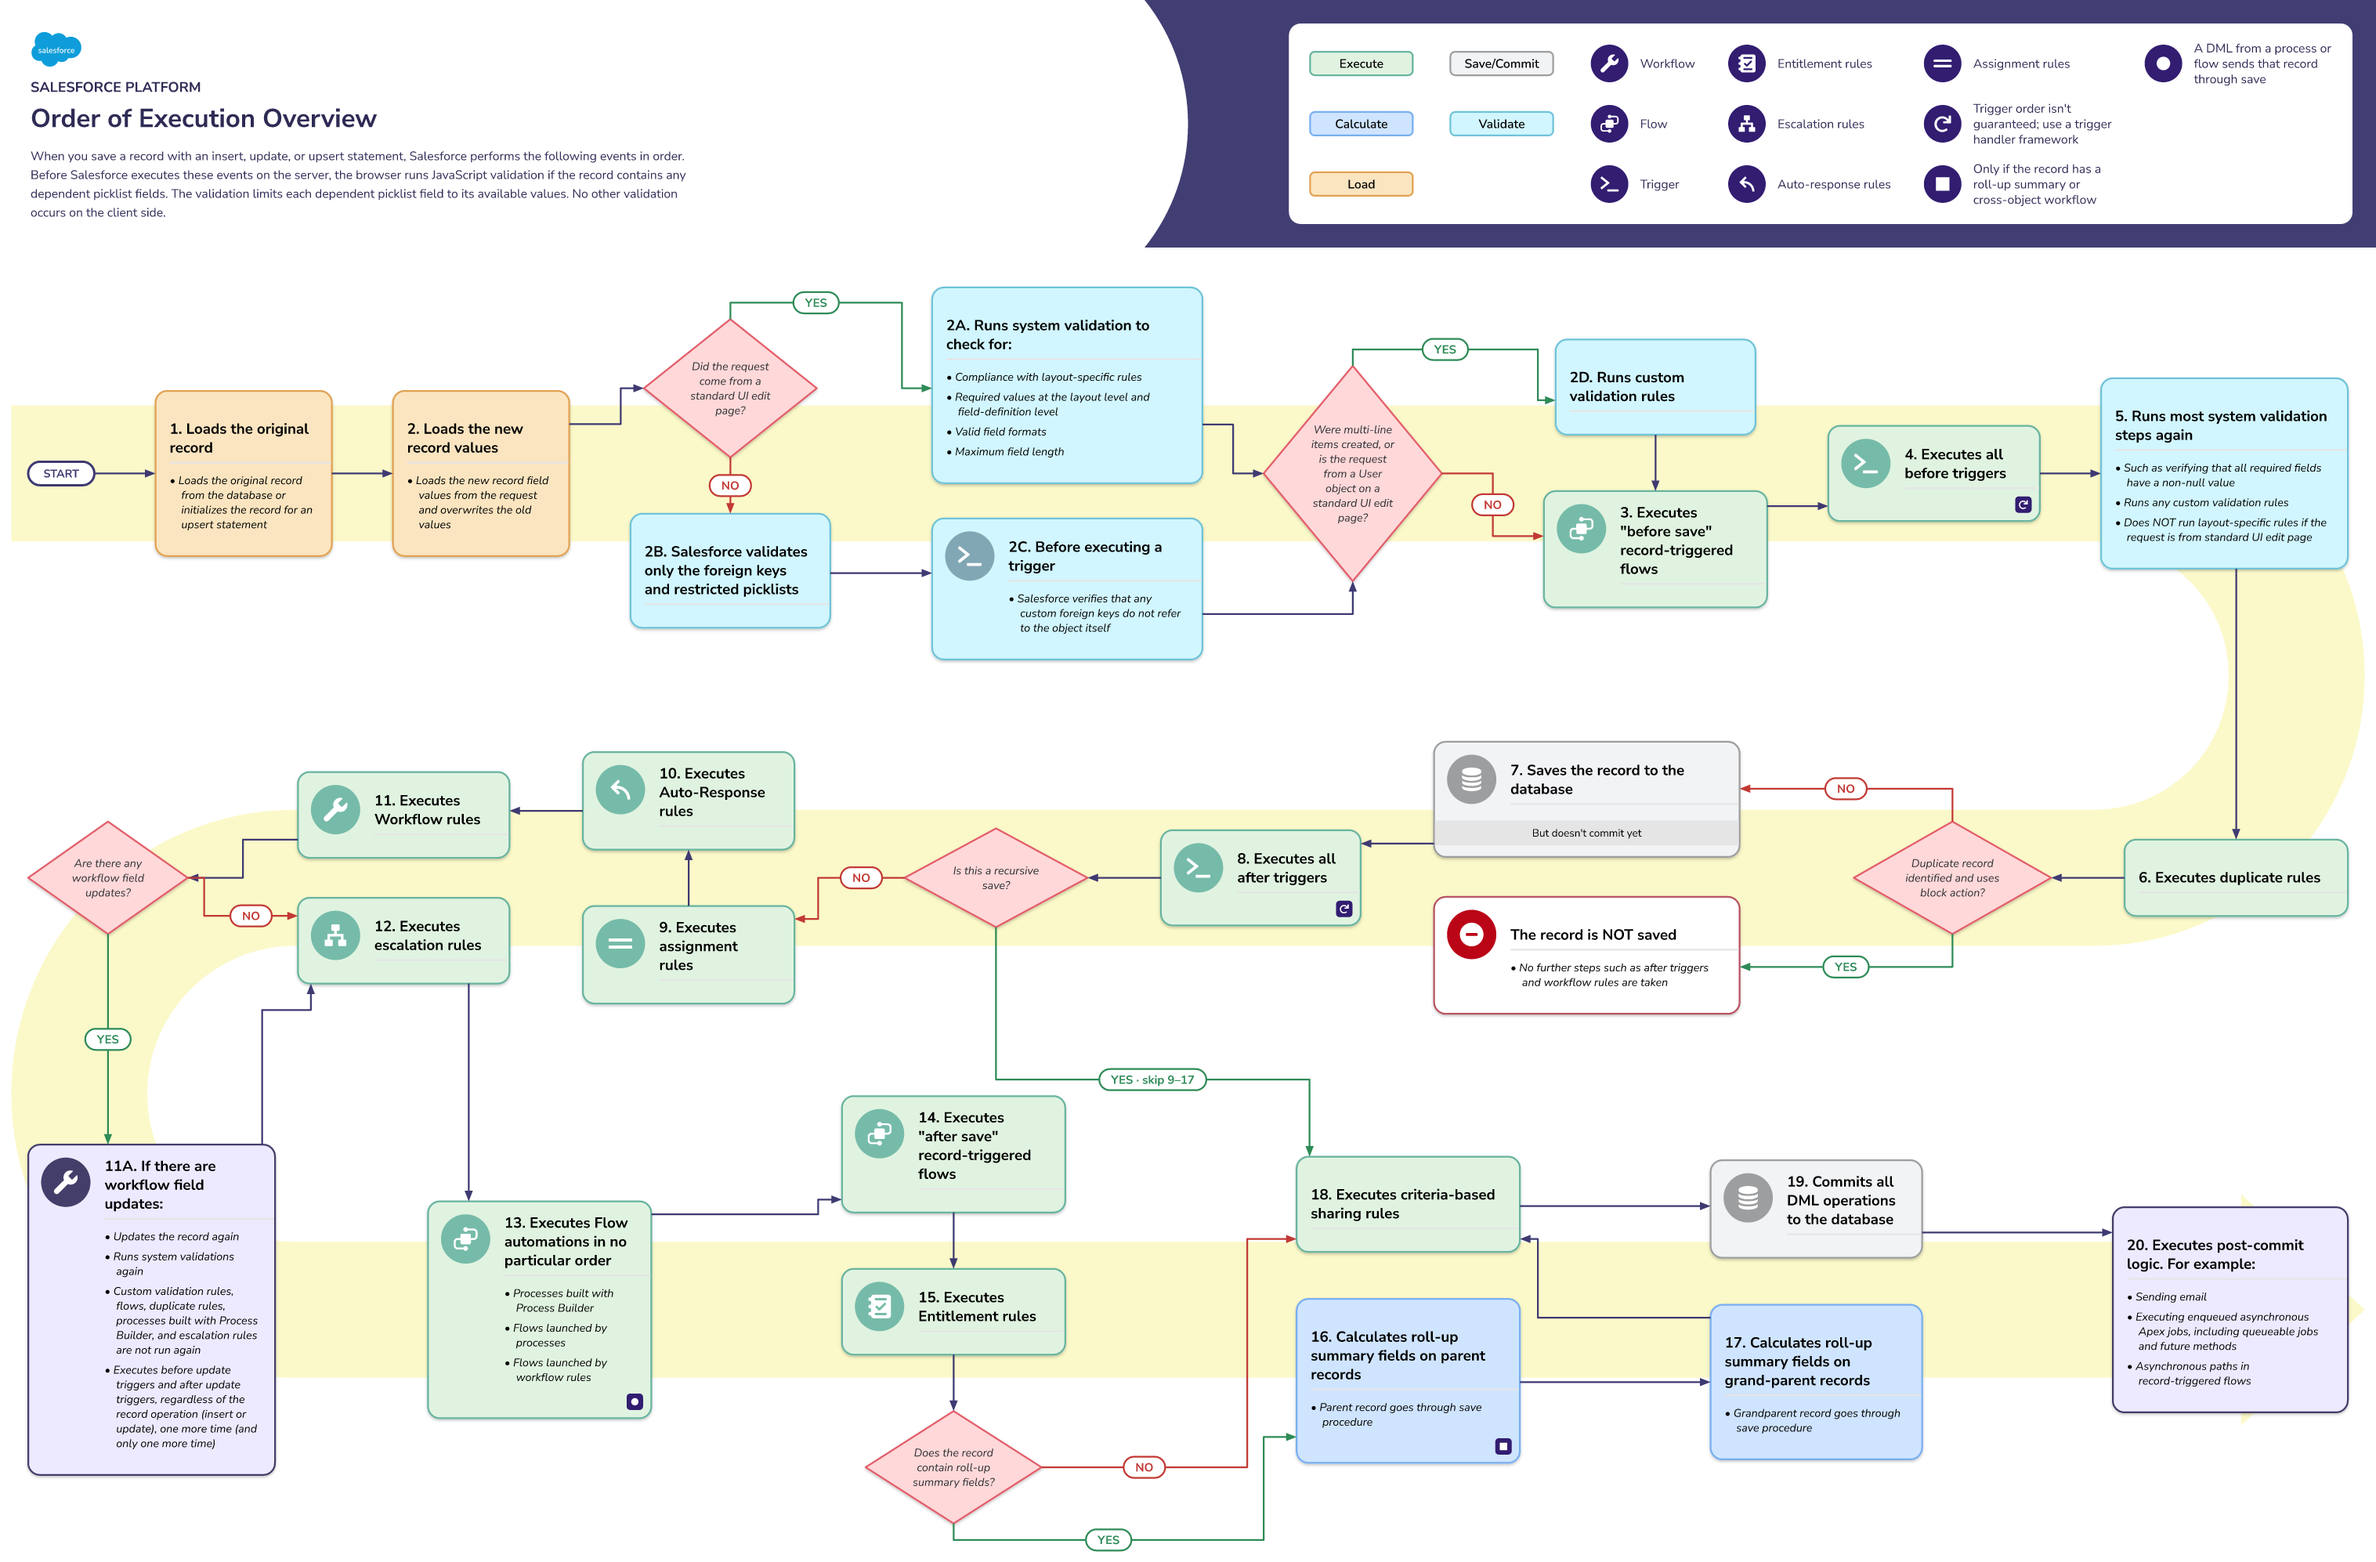
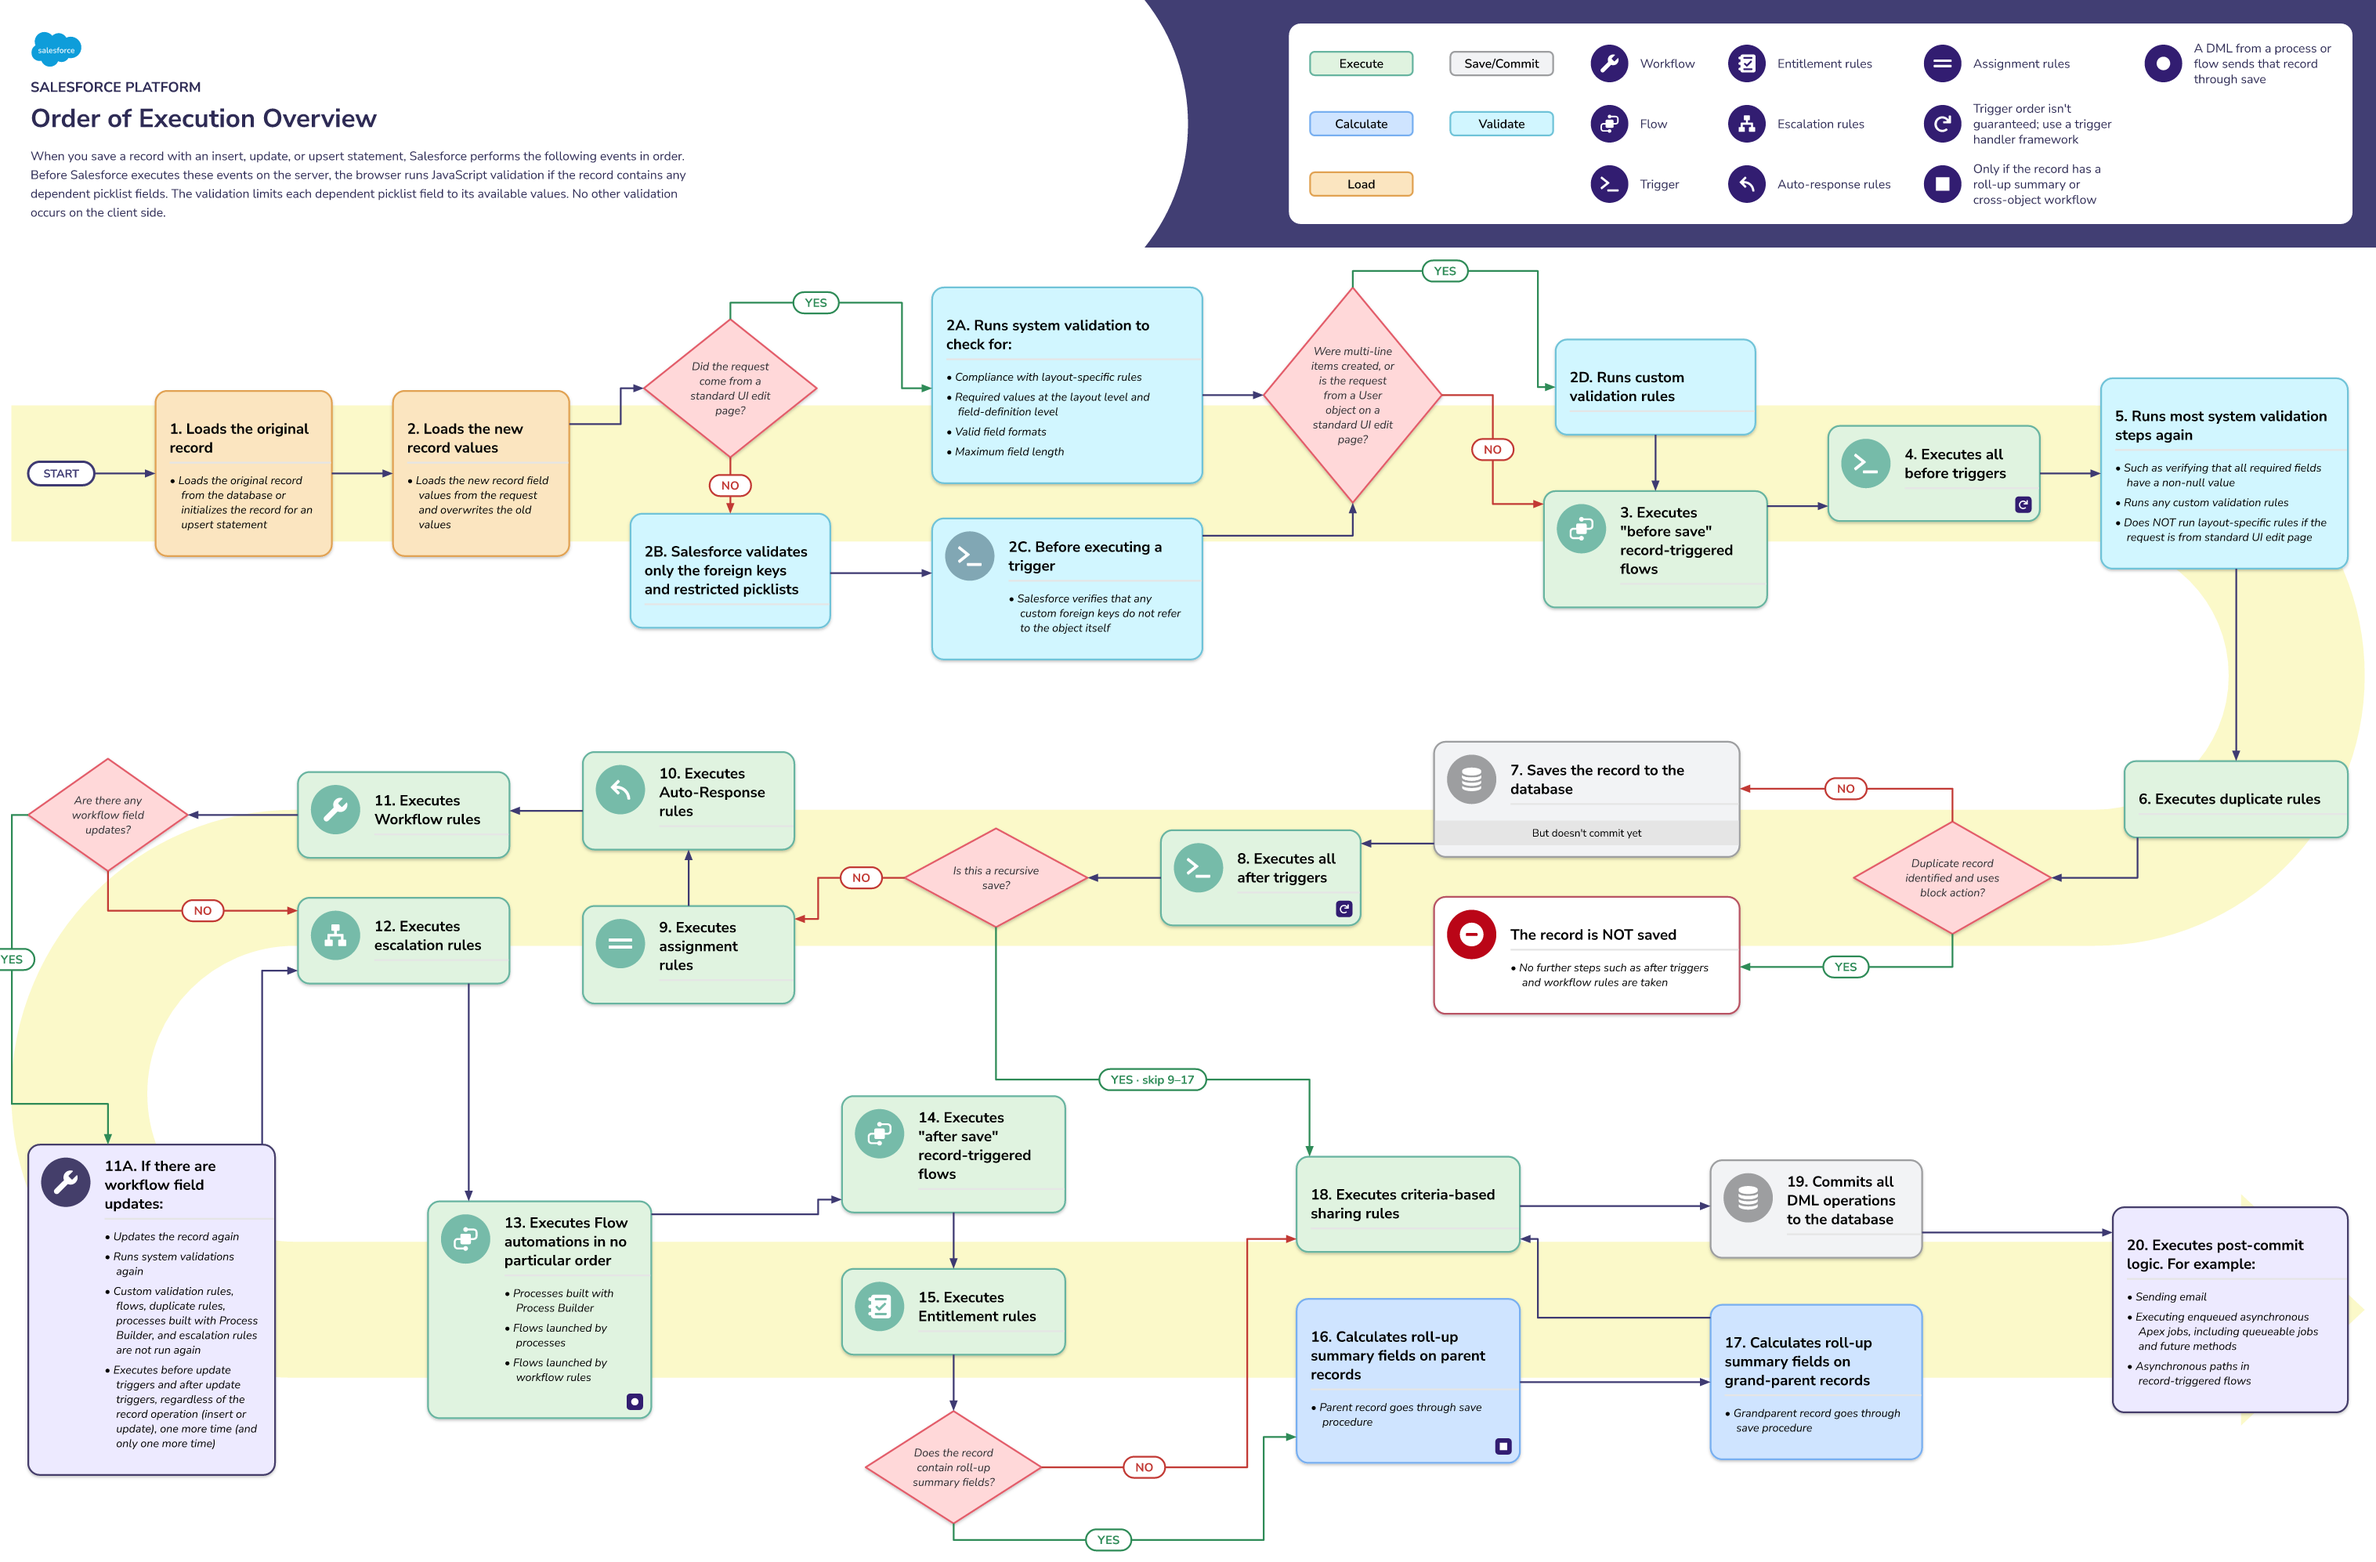
alignWith: line a node up with another across its parent's flow; order of execution decisions level with their branch targets and branch sides matching the official
Claude-Session: https://claude.ai/code/session_012tbLD3E1bNVEkpSjtvedpe

diff --git a/src/layout.ts b/src/layout.ts
@@ -471,6 +471,35 @@ function place(n: LNode, x: number, y: number, w: number, h: number, isRoot = fa
   });
 }
 
+function shift(n: LNode, dx: number, dy: number): void {
+  n.x += dx;
+  n.y += dy;
+  for (const c of n.children) shift(c, dx, dy);
+}
+
+/**
+ * `alignWith`: move a node across its parent's flow (up/down in a row, sideways in a
+ * column) so its centre lines up with another node's, staying inside the parent.
+ */
+function alignNodes(root: LNode, nodes: Map<string, LNode>): void {
+  const visit = (n: LNode) => {
+    for (const c of n.children) {
+      const t = c.input.alignWith ? nodes.get(c.input.alignWith) : undefined;
+      if (t && !ancestors(t).includes(c)) {
+        const row = (n.input.layout ?? (n === root ? 'column' : 'row')) === 'row';
+        const lo = row ? n.y + (n.framed ? n.bodyY : 0) : n.x + (n.framed ? n.bodyX : 0);
+        const hi = row ? n.y + n.h : n.x + n.w;
+        const [pos, size, want] = row ? [c.y, c.h, t.y + t.h / 2] : [c.x, c.w, t.x + t.w / 2];
+        const to = Math.min(Math.max(want - size / 2, lo), hi - size);
+        if (row) shift(c, 0, to - pos);
+        else shift(c, to - pos, 0);
+      }
+      visit(c);
+    }
+  };
+  visit(root);
+}
+
 /** Length of a key line sample: long enough to show its dash pattern and arrowheads. */
 export function keyLineW(e: KeyEntry): number {
   return e.arrow && e.arrow !== 'none' ? 72 : 48;
@@ -745,6 +774,7 @@ export function layoutDiagram(input: DiagramInput, baseOpts: LayoutOptions = {})
   const header = layoutHeader(input, width, entries, opts);
   const top = header.h + theme.canvas.headerGap;
   place(root, m, top, width - 2 * m, root.nh, true);
+  alignNodes(root, nodes);
   const height = Math.ceil(top + root.nh + m + 8);
   return { width, height, header, root, nodes, connections: edges, input };
 }

diff --git a/src/validate.ts b/src/validate.ts
@@ -141,6 +141,17 @@ export function validateSource(src: string, opts: { iconDirs?: string[] } = {}):
   const parentOf = new Map<string, string | undefined>();
   const mapParents = (nodes: NodeInput[], parent?: string) => nodes.forEach((n) => (parentOf.set(n.id, parent), n.children && mapParents(n.children, n.id)));
   mapParents(d.nodes ?? []);
+  const checkAlign = (nodes: NodeInput[], base: (string | number)[]) =>
+    nodes.forEach((n, i) => {
+      const p = [...base, i];
+      if (n.alignWith && !ids.has(n.alignWith)) {
+        const s = suggest(n.alignWith, [...ids.keys()]);
+        errors.push({ path: pathString([...p, 'alignWith']), message: `alignWith unknown node "${n.alignWith}"`, hint: s.length ? `did you mean "${s[0]}"?` : undefined, line: lineOf(doc, lc, [...p, 'alignWith']) });
+      }
+      if (n.alignWith === n.id) errors.push({ path: pathString([...p, 'alignWith']), message: 'a node cannot align with itself', line: lineOf(doc, lc, [...p, 'alignWith']) });
+      if (n.children) checkAlign(n.children, [...p, 'children']);
+    });
+  checkAlign(d.nodes ?? [], ['nodes']);
   (d.connections ?? []).forEach((c, i) => {
     for (const end of ['from', 'to'] as const) {
       if (!ids.has(c[end])) {

diff --git a/src/schema.ts b/src/schema.ts
@@ -39,6 +39,7 @@ export interface NodeInput {
   badge?: string;
   width?: number;
   height?: number;
+  alignWith?: string;
   children?: NodeInput[];
 }
 
@@ -79,6 +80,7 @@ export const Node: z.ZodType<NodeInput> = z
     badge: z.string().optional().describe('Small icon in the bottom-right corner (explain it in the key).'),
     width: z.number().min(40).max(4000).optional().describe('Minimum width in px.'),
     height: z.number().min(30).max(4000).optional().describe('Minimum height in px.'),
+    alignWith: Id.optional().describe('Line this node up with another node (same centre across the parent row/column), e.g. a decision level with the card its branch runs into.'),
     get children() {
       return z.array(Node).optional().describe('Nested cards. A node with children is a container.');
     },

diff --git a/test/route.test.ts b/test/route.test.ts
@@ -73,3 +73,11 @@ it('a decision branches down to side cards from its left and right points', () =
   expect([side('approve').fromSide, side('approve').toSide]).toEqual(['left', 'top']);
   expect([side('reject').fromSide, side('reject').toSide]).toEqual(['right', 'top']);
 });
+
+it('alignWith lines a node up with another so the branch between them runs straight', () => {
+  const { layout, routes } = compileExample('order-of-execution.yaml');
+  const c = (id: string) => { const n = layout.nodes.get(id)!; return n.y + n.h / 2; };
+  expect(Math.abs(c('d5') - c('s11'))).toBeLessThan(1);
+  expect(Math.abs(c('s6') - c('s7'))).toBeLessThan(1);
+  expect(routes.find((r) => r.conn.from === 's11' && r.conn.to === 'd5')!.points).toHaveLength(2);
+});

diff --git a/test/validate.test.ts b/test/validate.test.ts
@@ -31,3 +31,8 @@ describe('validate', () => {
     expect(r.errors.map((e) => e.message)).toEqual(['duplicate id "a"', 'card "a" needs a title']);
   });
 });
+
+it('rejects alignWith pointing at an unknown node', () => {
+  const r = validateSource('title: T\nnodes:\n  - { id: a, title: A, alignWith: bb }\n  - { id: b, title: B }\n');
+  expect(r.errors.some((e) => e.message.includes('alignWith unknown node "bb"'))).toBe(true);
+});

diff --git a/.claude/skills/sf-diagram/SKILL.md b/.claude/skills/sf-diagram/SKILL.md
@@ -135,6 +135,9 @@ connections:
 - `shape: decision | pill | note` — diamonds/terminals connect at their points. A
   decision branching down to cards on either side automatically leaves from its left
   and right points and turns down into each card; no `fromSide`/`toSide` needed.
+- `alignWith: <id>` lines a node up with another node across its parent's flow (same
+  vertical centre in a row, same horizontal centre in a column), e.g. a decision level
+  with the card its branch runs into, so the line between them is straight.
 - `badge: <icon>` puts a small icon in a card's corner; badges and `keyLabels`
   icon entries appear in the key.
 - Put long-running rows in top-level `frame: none` rows; alternate `reverse: true` for a
